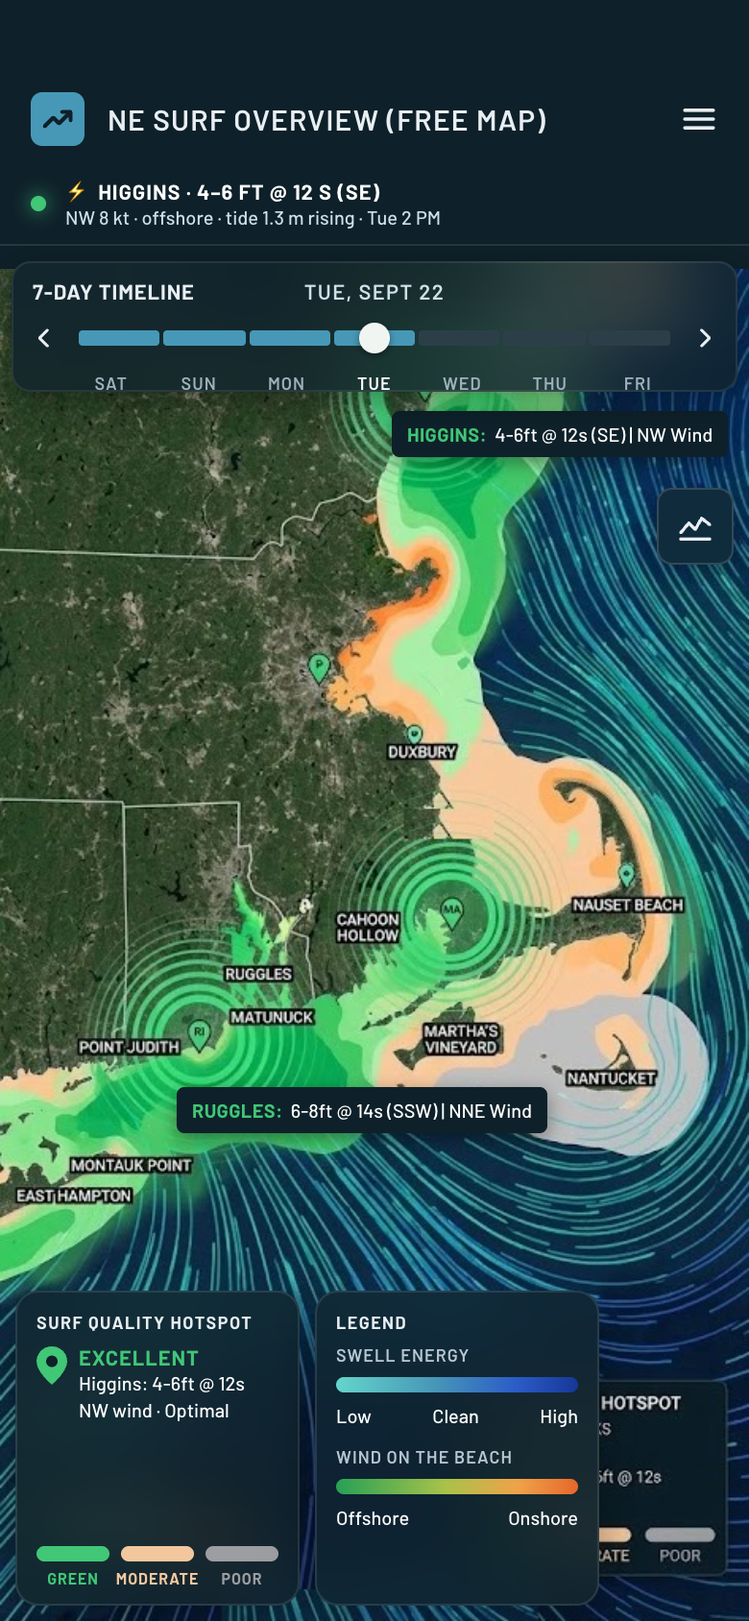
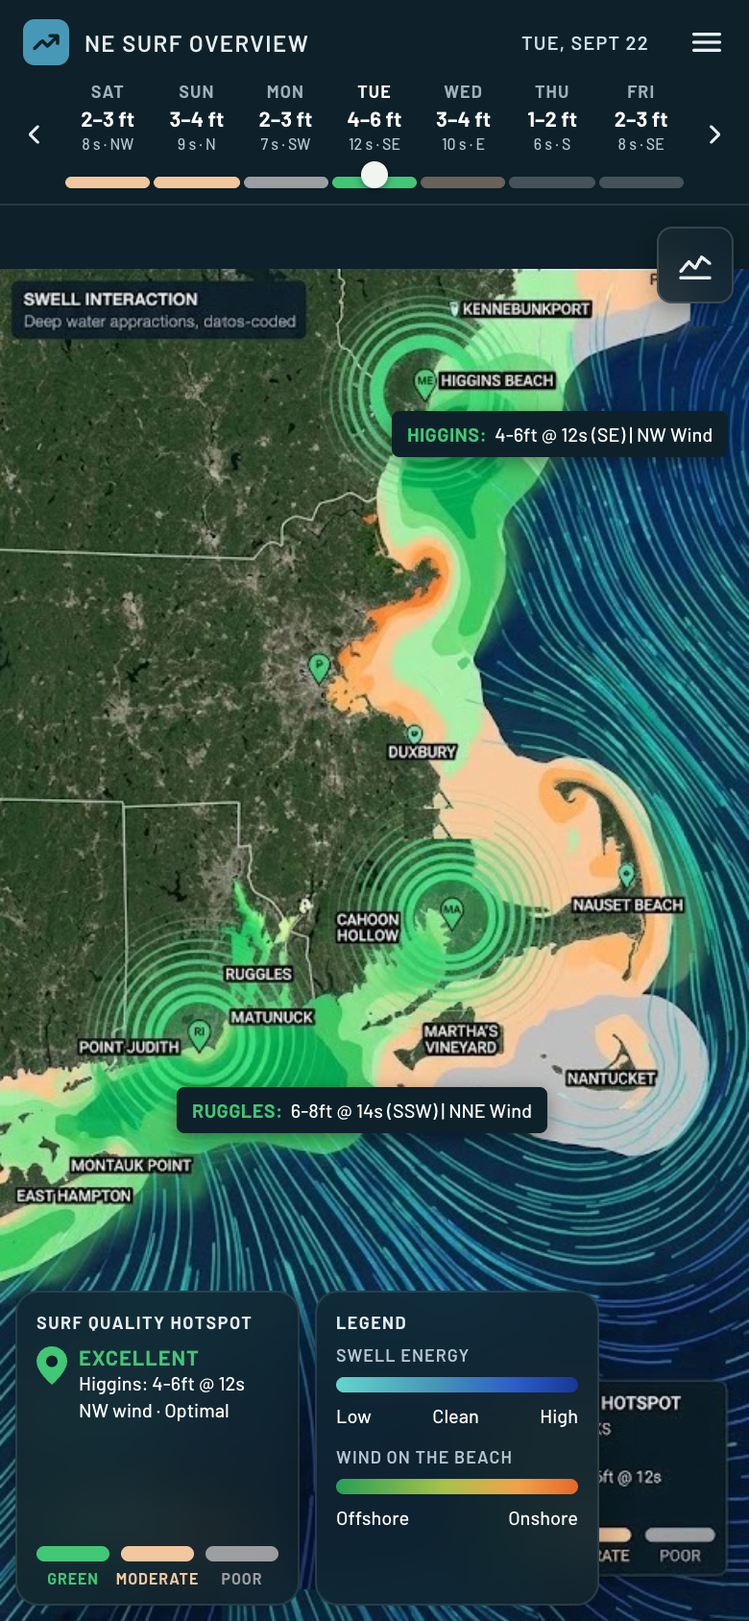
Compact header: one glass bar with the 7-day forecast timeline
- title row (24 px logo, title, date, menu) + a 7-day timeline where each day column carries the region's best break: range, period · wind, tier-coloured segment; the knob rides over the segments and follows the hovered hour
- forecast strip and the separate timeline card removed (~204 px → ~106 px on a phone); forecast button moved up; map fit padding updated
- ui-reference.html v6 + PNG re-rendered; diff: header 0.33%, dock cards ≤0.26%

diff --git a/design/ne-surf-handoff/ui-reference.html b/design/ne-surf-handoff/ui-reference.html
@@ -18,70 +18,75 @@ button{font-family:inherit}
   <!-- MAP LAYER (placeholder for the map engine: satellite tiles + swell heat + wind streamlines + break markers) -->
   <img src="map_layer.jpg" alt="Satellite map of the New England coast with swell and wind overlays" style="position: absolute; left: 0px; top: 140px; width: 390px; height: 704px; object-fit: cover; display: block;">
 
-  <!-- HEADER (safe-area 40px + 44px bar) -->
-  <div style="position: absolute; left: 0px; top: 0px; width: 390px; height: 84px; background: rgba(14,32,41,0.72); backdrop-filter: blur(24px); -webkit-backdrop-filter: blur(24px); box-sizing: border-box; padding: 40px 16px 0px 16px; display: flex; align-items: center; gap: 12px; z-index: 5;">
-    <div style="width: 28px; height: 28px; border-radius: 6px; background: #4798b7; display: flex; align-items: center; justify-content: center; flex-shrink: 0;">
-      <svg width="18" height="18" viewBox="0 0 24 24" fill="none" stroke="#0e2029" stroke-width="2.6" stroke-linecap="round" stroke-linejoin="round"><polyline points="3 17 9 11 13 15 21 7"></polyline><polyline points="15 7 21 7 21 13"></polyline></svg>
+  <!-- COMPACT HEADER (v6 2026-09-22): one glass bar — title row + 7-day forecast timeline -->
+  <div style="position: absolute; left: 0px; top: 0px; width: 390px; background: rgba(14,32,41,0.72); backdrop-filter: blur(24px); -webkit-backdrop-filter: blur(24px); border-bottom: 1px solid rgba(255,255,255,0.10); box-sizing: border-box; padding: calc(8px + env(safe-area-inset-top)) 12px 8px 12px; z-index: 5;">
+    <div style="display: flex; align-items: center; gap: 8px; height: 28px;">
+      <div style="width: 24px; height: 24px; border-radius: 6px; background: #4798b7; display: flex; align-items: center; justify-content: center; flex-shrink: 0;">
+        <svg width="16" height="16" viewBox="0 0 24 24" fill="none" stroke="#0e2029" stroke-width="2.6" stroke-linecap="round" stroke-linejoin="round"><polyline points="3 17 9 11 13 15 21 7"></polyline><polyline points="15 7 21 7 21 13"></polyline></svg>
+      </div>
+      <div style="flex-grow: 1; font-size: 12px; font-weight: 600; letter-spacing: 0.06em; text-transform: uppercase; color: #e8eef2; white-space: nowrap; overflow: hidden; text-overflow: ellipsis;">NE Surf Overview</div>
+      <div style="font-size: 10px; font-weight: 600; letter-spacing: 0.06em; text-transform: uppercase; color: #cfe0ea; white-space: nowrap;">Tue, Sept 22</div>
+      <button aria-label="Open menu" style="width: 44px; height: 44px; margin-right: -12px; background: transparent; border: 0; padding: 0; display: flex; align-items: center; justify-content: center; cursor: pointer;">
+        <svg width="20" height="20" viewBox="0 0 24 24" fill="none" stroke="#e8eef2" stroke-width="2" stroke-linecap="round"><line x1="4" y1="7" x2="20" y2="7"></line><line x1="4" y1="12" x2="20" y2="12"></line><line x1="4" y1="17" x2="20" y2="17"></line></svg>
+      </button>
     </div>
-    <div style="flex-grow: 1; font-size: 15px; font-weight: 600; letter-spacing: 0.04em; text-transform: uppercase; color: #e8eef2; white-space: nowrap; overflow: hidden; text-overflow: ellipsis;">NE Surf Overview (Free Map)</div>
-    <button aria-label="Open menu" style="width: 44px; height: 44px; margin-right: -12px; background: transparent; border: 0; padding: 0; display: flex; align-items: center; justify-content: center; cursor: pointer;">
-      <svg width="22" height="22" viewBox="0 0 24 24" fill="none" stroke="#e8eef2" stroke-width="2" stroke-linecap="round"><line x1="4" y1="7" x2="20" y2="7"></line><line x1="4" y1="12" x2="20" y2="12"></line><line x1="4" y1="17" x2="20" y2="17"></line></svg>
-    </button>
-  </div>
-
-  <!-- FULL FORECAST STRIP (v4 2026-09-22: second row of the glass header) -->
-  <div style="position: absolute; left: 0px; top: 84px; width: 390px; height: 44px; background: rgba(14,32,41,0.72); backdrop-filter: blur(24px); -webkit-backdrop-filter: blur(24px); border-bottom: 1px solid rgba(255,255,255,0.10); box-sizing: border-box; z-index: 5;">
-    <button style="width: 100%; height: 44px; padding: 0 16px; border: 0; background: transparent; display: flex; align-items: center; gap: 10px; cursor: pointer; color: #ffffff; font-family: 'Barlow', system-ui, sans-serif; text-align: left;">
-      <span style="width: 8px; height: 8px; border-radius: 4px; background: #41c776; box-shadow: 0 0 10px #41c776; flex-shrink: 0;"></span>
-      <span style="min-width: 0; display: flex; flex-direction: column; line-height: 1.2;">
-        <span style="font-size: 11px; font-weight: 700; letter-spacing: .04em; text-transform: uppercase; white-space: nowrap; overflow: hidden; text-overflow: ellipsis;">⚡ Higgins · 4–6 ft @ 12 s (SE)</span>
-        <span style="font-size: 10px; font-weight: 500; color: #cfe0ea; white-space: nowrap; overflow: hidden; text-overflow: ellipsis;">NW 8 kt · offshore · tide 1.3 m rising · Tue 2 PM</span>
-      </span>
-    </button>
-  </div>
-
-  <!-- 7-DAY TIMELINE -->
-  <div style="position: absolute; left: 6px; top: 136px; width: 378px; height: 68px; border-radius: 10px; background: rgba(14,33,42,0.78); backdrop-filter: blur(18px); -webkit-backdrop-filter: blur(18px); border: 1px solid rgba(255,255,255,0.08); box-shadow: 0px 6px 18px rgba(0,0,0,0.35); box-sizing: border-box; padding: 8px 10px 6px 10px; display: flex; flex-direction: column; gap: 6px; z-index: 6;">
-    <div style="display: grid; grid-template-columns: repeat(3, minmax(0, 1fr)); align-items: center;">
-      <div style="font-size: 11px; font-weight: 700; letter-spacing: 0.04em; text-transform: uppercase; color: #e8eef2;">7-Day Timeline</div>
-      <div style="text-align: center; font-size: 11px; font-weight: 600; letter-spacing: 0.06em; text-transform: uppercase; color: #cfe0ea;">Tue, Sept 22</div>
-      <div></div>
-    </div>
-    <div style="display: flex; align-items: center; gap: 6px;">
+    <div style="display: flex; align-items: center; gap: 4px; margin-top: 6px;">
       <button aria-label="Previous day" style="width: 24px; height: 24px; margin-left: -6px; background: transparent; border: 0; padding: 0; display: flex; align-items: center; justify-content: center; cursor: pointer;">
         <svg width="14" height="14" viewBox="0 0 24 24" fill="none" stroke="#e8eef2" stroke-width="2.6" stroke-linecap="round" stroke-linejoin="round"><polyline points="15 5 8 12 15 19"></polyline></svg>
       </button>
-      <div style="flex-grow: 1; position: relative; height: 16px; display: flex; align-items: center;">
-        <div style="flex-grow: 1; display: grid; grid-template-columns: repeat(7, minmax(0, 1fr)); gap: 2px; height: 8px;">
-          <button aria-label="Sat" style="height: 8px; border: 0; padding: 0; border-radius: 2px; cursor: pointer; background: #4798b7;"></button>
-<button aria-label="Sun" style="height: 8px; border: 0; padding: 0; border-radius: 2px; cursor: pointer; background: #4798b7;"></button>
-<button aria-label="Mon" style="height: 8px; border: 0; padding: 0; border-radius: 2px; cursor: pointer; background: #4798b7;"></button>
-<button aria-label="Tue" style="height: 8px; border: 0; padding: 0; border-radius: 2px; cursor: pointer; background: #4798b7;"></button>
-<button aria-label="Wed" style="height: 8px; border: 0; padding: 0; border-radius: 2px; cursor: pointer; background: #2c3f49;"></button>
-<button aria-label="Thu" style="height: 8px; border: 0; padding: 0; border-radius: 2px; cursor: pointer; background: #2c3f49;"></button>
-<button aria-label="Fri" style="height: 8px; border: 0; padding: 0; border-radius: 2px; cursor: pointer; background: #2c3f49;"></button>
-
-        </div>
-        <div style="position: absolute; top: 0px; left: calc(50% - 8px); width: 16px; height: 16px; border-radius: 8px; background: #f0f5f1; box-shadow: 0px 1px 4px rgba(0,0,0,0.5); pointer-events: none;"></div>
+      <div style="flex-grow: 1; position: relative; display: grid; grid-template-columns: repeat(7, minmax(0, 1fr)); gap: 2px;">
+            <button aria-label="Sat 2–3 ft" style="height: 56px; padding: 0px; background: transparent; border: 0; cursor: pointer; display: flex; flex-direction: column; align-items: center; justify-content: flex-start; gap: 2px; min-width: 0px;">
+              <div style="font-size: 9px; font-weight: 700; letter-spacing: 0.06em; text-transform: uppercase; color: #9fb1bc;">Sat</div>
+              <div style="font-size: 11px; font-weight: 700; color: #ffffff; white-space: nowrap;">2–3 ft</div>
+              <div style="font-size: 8px; font-weight: 500; color: #b8c7d1; white-space: nowrap; overflow: hidden; text-overflow: ellipsis; max-width: 100%;">8 s · NW</div>
+              <div style="width: 100%; height: 6px; border-radius: 3px; margin-top: auto; background: #f3c79e; opacity: 1;"></div>
+            </button>
+            <button aria-label="Sun 3–4 ft" style="height: 56px; padding: 0px; background: transparent; border: 0; cursor: pointer; display: flex; flex-direction: column; align-items: center; justify-content: flex-start; gap: 2px; min-width: 0px;">
+              <div style="font-size: 9px; font-weight: 700; letter-spacing: 0.06em; text-transform: uppercase; color: #9fb1bc;">Sun</div>
+              <div style="font-size: 11px; font-weight: 700; color: #ffffff; white-space: nowrap;">3–4 ft</div>
+              <div style="font-size: 8px; font-weight: 500; color: #b8c7d1; white-space: nowrap; overflow: hidden; text-overflow: ellipsis; max-width: 100%;">9 s · N</div>
+              <div style="width: 100%; height: 6px; border-radius: 3px; margin-top: auto; background: #f3c79e; opacity: 1;"></div>
+            </button>
+            <button aria-label="Mon 2–3 ft" style="height: 56px; padding: 0px; background: transparent; border: 0; cursor: pointer; display: flex; flex-direction: column; align-items: center; justify-content: flex-start; gap: 2px; min-width: 0px;">
+              <div style="font-size: 9px; font-weight: 700; letter-spacing: 0.06em; text-transform: uppercase; color: #9fb1bc;">Mon</div>
+              <div style="font-size: 11px; font-weight: 700; color: #ffffff; white-space: nowrap;">2–3 ft</div>
+              <div style="font-size: 8px; font-weight: 500; color: #b8c7d1; white-space: nowrap; overflow: hidden; text-overflow: ellipsis; max-width: 100%;">7 s · SW</div>
+              <div style="width: 100%; height: 6px; border-radius: 3px; margin-top: auto; background: #9c9ea1; opacity: 1;"></div>
+            </button>
+            <button aria-label="Tue 4–6 ft" style="height: 56px; padding: 0px; background: transparent; border: 0; cursor: pointer; display: flex; flex-direction: column; align-items: center; justify-content: flex-start; gap: 2px; min-width: 0px;">
+              <div style="font-size: 9px; font-weight: 700; letter-spacing: 0.06em; text-transform: uppercase; color: #ffffff;">Tue</div>
+              <div style="font-size: 11px; font-weight: 700; color: #ffffff; white-space: nowrap;">4–6 ft</div>
+              <div style="font-size: 8px; font-weight: 500; color: #b8c7d1; white-space: nowrap; overflow: hidden; text-overflow: ellipsis; max-width: 100%;">12 s · SE</div>
+              <div style="width: 100%; height: 6px; border-radius: 3px; margin-top: auto; background: #41c776; opacity: 1;"></div>
+            </button>
+            <button aria-label="Wed 3–4 ft" style="height: 56px; padding: 0px; background: transparent; border: 0; cursor: pointer; display: flex; flex-direction: column; align-items: center; justify-content: flex-start; gap: 2px; min-width: 0px;">
+              <div style="font-size: 9px; font-weight: 700; letter-spacing: 0.06em; text-transform: uppercase; color: #9fb1bc;">Wed</div>
+              <div style="font-size: 11px; font-weight: 700; color: #ffffff; white-space: nowrap;">3–4 ft</div>
+              <div style="font-size: 8px; font-weight: 500; color: #b8c7d1; white-space: nowrap; overflow: hidden; text-overflow: ellipsis; max-width: 100%;">10 s · E</div>
+              <div style="width: 100%; height: 6px; border-radius: 3px; margin-top: auto; background: #f3c79e; opacity: 0.4;"></div>
+            </button>
+            <button aria-label="Thu 1–2 ft" style="height: 56px; padding: 0px; background: transparent; border: 0; cursor: pointer; display: flex; flex-direction: column; align-items: center; justify-content: flex-start; gap: 2px; min-width: 0px;">
+              <div style="font-size: 9px; font-weight: 700; letter-spacing: 0.06em; text-transform: uppercase; color: #9fb1bc;">Thu</div>
+              <div style="font-size: 11px; font-weight: 700; color: #ffffff; white-space: nowrap;">1–2 ft</div>
+              <div style="font-size: 8px; font-weight: 500; color: #b8c7d1; white-space: nowrap; overflow: hidden; text-overflow: ellipsis; max-width: 100%;">6 s · S</div>
+              <div style="width: 100%; height: 6px; border-radius: 3px; margin-top: auto; background: #9c9ea1; opacity: 0.4;"></div>
+            </button>
+            <button aria-label="Fri 2–3 ft" style="height: 56px; padding: 0px; background: transparent; border: 0; cursor: pointer; display: flex; flex-direction: column; align-items: center; justify-content: flex-start; gap: 2px; min-width: 0px;">
+              <div style="font-size: 9px; font-weight: 700; letter-spacing: 0.06em; text-transform: uppercase; color: #9fb1bc;">Fri</div>
+              <div style="font-size: 11px; font-weight: 700; color: #ffffff; white-space: nowrap;">2–3 ft</div>
+              <div style="font-size: 8px; font-weight: 500; color: #b8c7d1; white-space: nowrap; overflow: hidden; text-overflow: ellipsis; max-width: 100%;">8 s · SE</div>
+              <div style="width: 100%; height: 6px; border-radius: 3px; margin-top: auto; background: #9c9ea1; opacity: 0.4;"></div>
+            </button>
+            <div style="position: absolute; top: 42px; left: calc(50.000% - 7px); width: 14px; height: 14px; border-radius: 7px; background: #f0f5f1; box-shadow: 0px 1px 4px rgba(0,0,0,0.5); pointer-events: none;"></div>
       </div>
       <button aria-label="Next day" style="width: 24px; height: 24px; margin-right: -6px; background: transparent; border: 0; padding: 0; display: flex; align-items: center; justify-content: center; cursor: pointer;">
         <svg width="14" height="14" viewBox="0 0 24 24" fill="none" stroke="#e8eef2" stroke-width="2.6" stroke-linecap="round" stroke-linejoin="round"><polyline points="9 5 16 12 9 19"></polyline></svg>
       </button>
     </div>
-    <div style="display: grid; grid-template-columns: repeat(7, minmax(0, 1fr)); padding: 0px 18px;">
-      <div style="text-align: center; font-size: 9px; font-weight: 600; letter-spacing: 0.06em; text-transform: uppercase; color: #9fb1bc;">Sat</div>
-<div style="text-align: center; font-size: 9px; font-weight: 600; letter-spacing: 0.06em; text-transform: uppercase; color: #9fb1bc;">Sun</div>
-<div style="text-align: center; font-size: 9px; font-weight: 600; letter-spacing: 0.06em; text-transform: uppercase; color: #9fb1bc;">Mon</div>
-<div style="text-align: center; font-size: 9px; font-weight: 600; letter-spacing: 0.06em; text-transform: uppercase; color: #ffffff;">Tue</div>
-<div style="text-align: center; font-size: 9px; font-weight: 600; letter-spacing: 0.06em; text-transform: uppercase; color: #9fb1bc;">Wed</div>
-<div style="text-align: center; font-size: 9px; font-weight: 600; letter-spacing: 0.06em; text-transform: uppercase; color: #9fb1bc;">Thu</div>
-<div style="text-align: center; font-size: 9px; font-weight: 600; letter-spacing: 0.06em; text-transform: uppercase; color: #9fb1bc;">Fri</div>
-
-    </div>
   </div>
 
   <!-- MAP CONTROL: LAYERS -->
-  <button aria-label="Surf forecast" style="position: absolute; left: 342px; top: 254px; width: 40px; height: 40px; border-radius: 8px; background: rgba(14,33,42,0.7); backdrop-filter: blur(18px); -webkit-backdrop-filter: blur(18px); border: 1px solid rgba(255,255,255,0.14); box-shadow: 0px 4px 14px rgba(0,0,0,0.35); display: flex; align-items: center; justify-content: center; cursor: pointer; z-index: 4;">
+  <button aria-label="Surf forecast" style="position: absolute; left: 342px; top: 118px; width: 40px; height: 40px; border-radius: 8px; background: rgba(14,33,42,0.7); backdrop-filter: blur(18px); -webkit-backdrop-filter: blur(18px); border: 1px solid rgba(255,255,255,0.14); box-shadow: 0px 4px 14px rgba(0,0,0,0.35); display: flex; align-items: center; justify-content: center; cursor: pointer; z-index: 4;">
     <svg width="20" height="20" viewBox="0 0 24 24" fill="none" stroke="#e8eef2" stroke-width="2" stroke-linecap="round" stroke-linejoin="round"><polyline points="3 16 8 10 12 14 16 7 21 11"></polyline><line x1="3" y1="20" x2="21" y2="20"></line></svg>
   </button>
 

diff --git a/components/screen/OverviewScreen.tsx b/components/screen/OverviewScreen.tsx
@@ -1,6 +1,6 @@
 "use client";
 /**
- * 1:1 port of design/ne-surf-handoff/ui-reference.html (v2, 2026-09-22: mode chips removed, Layers control → Forecast drawer control). Every px, hex, radius, opacity and font value below is
+ * 1:1 port of design/ne-surf-handoff/ui-reference.html (v6, 2026-09-22: one compact glass header = title row + 7-day forecast timeline; widget dock). Every px, hex, radius, opacity and font value below is
  * copied from that file; only the text content and the map slot are props. Do not restyle from memory —
  * change ui-reference.html first, then this file, then pass `npm run diff`.
  *
@@ -8,23 +8,19 @@
  * the 24px chevrons and 8px segments carry invisible ≥44px hit areas (.hit44 / .hit44-seg).
  */
 import type { CSSProperties, ReactNode } from "react";
-import ForecastStrip, { type StripModel } from "./ForecastStrip";
 
 export interface ScreenModel {
   dateLabel: string;
-  days: Array<{ name: string; filled: boolean; active: boolean }>;
+  days: Array<{ name: string; filled: boolean; active: boolean; range: string; meta: string; tierColor: string }>;
   selectedIndex: number;
   callouts: Array<{ id: string; name: string; body: string; left: number; top: number; color?: string }>;
   hotspot: { rating: string; ratingColor: string; line1: string; line2: string; pinColor: string };
-  /** full forecast for the best break at the active hour: second row of the glass header (2026-09-22 v4) */
-  forecast: StripModel;
   /** position of the timeline knob inside the active day (0–1); undefined = centred, as in ui-reference.html */
   knobFraction?: number;
 }
 
 export interface ScreenHandlers {
   onPrev: () => void; onNext: () => void; onPickDay: (i: number) => void;
-  onStrip: () => void;
   onForecast: () => void; onMenu: () => void; onHotspot: () => void;
 }
 
@@ -50,54 +46,41 @@ export default function OverviewScreen({ m, h, map, dockExtras, children }: { m:
       {/* MAP LAYER */}
       {map}
 
-      {/* HEADER (safe-area 40px + 44px bar) */}
-      <div style={{ position: "absolute", left: 0, top: 0, width: "100%", height: 84, background: "rgba(14,32,41,0.72)", backdropFilter: "blur(24px)", WebkitBackdropFilter: "blur(24px)", boxSizing: "border-box", padding: "40px 16px 0px 16px", display: "flex", alignItems: "center", gap: 12, zIndex: 5 }}>
-        <div style={{ width: 28, height: 28, borderRadius: 6, background: "#4798b7", display: "flex", alignItems: "center", justifyContent: "center", flexShrink: 0 }}>
-          <svg width="18" height="18" viewBox="0 0 24 24" fill="none" stroke="#0e2029" strokeWidth="2.6" strokeLinecap="round" strokeLinejoin="round"><polyline points="3 17 9 11 13 15 21 7"></polyline><polyline points="15 7 21 7 21 13"></polyline></svg>
+      {/* COMPACT HEADER (v6 2026-09-22): one glass bar — slim title row + the 7-day forecast timeline (each day carries its own forecast) */}
+      <div style={{ position: "absolute", left: 0, top: 0, width: "100%", background: "rgba(14,32,41,0.72)", backdropFilter: "blur(24px)", WebkitBackdropFilter: "blur(24px)", borderBottom: "1px solid rgba(255,255,255,0.10)", boxSizing: "border-box", padding: "calc(8px + env(safe-area-inset-top)) 12px 8px 12px", zIndex: 5 }}>
+        <div style={{ display: "flex", alignItems: "center", gap: 8, height: 28 }}>
+          <div style={{ width: 24, height: 24, borderRadius: 6, background: "#4798b7", display: "flex", alignItems: "center", justifyContent: "center", flexShrink: 0 }}>
+            <svg width="16" height="16" viewBox="0 0 24 24" fill="none" stroke="#0e2029" strokeWidth="2.6" strokeLinecap="round" strokeLinejoin="round"><polyline points="3 17 9 11 13 15 21 7"></polyline><polyline points="15 7 21 7 21 13"></polyline></svg>
+          </div>
+          <div style={{ flexGrow: 1, fontSize: 12, fontWeight: 600, letterSpacing: "0.06em", textTransform: "uppercase", color: "#e8eef2", whiteSpace: "nowrap", overflow: "hidden", textOverflow: "ellipsis" }}>NE Surf Overview</div>
+          <div style={{ fontSize: 10, fontWeight: 600, letterSpacing: "0.06em", textTransform: "uppercase", color: "#cfe0ea", whiteSpace: "nowrap" }}>{m.dateLabel}</div>
+          <button aria-label="Open menu" onClick={h.onMenu} style={{ width: 44, height: 44, marginRight: -12, background: "transparent", border: 0, padding: 0, display: "flex", alignItems: "center", justifyContent: "center", cursor: "pointer" }}>
+            <svg width="20" height="20" viewBox="0 0 24 24" fill="none" stroke="#e8eef2" strokeWidth="2" strokeLinecap="round"><line x1="4" y1="7" x2="20" y2="7"></line><line x1="4" y1="12" x2="20" y2="12"></line><line x1="4" y1="17" x2="20" y2="17"></line></svg>
+          </button>
         </div>
-        <div style={{ flexGrow: 1, fontSize: 15, fontWeight: 600, letterSpacing: "0.04em", textTransform: "uppercase", color: "#e8eef2", whiteSpace: "nowrap", overflow: "hidden", textOverflow: "ellipsis" }}>NE Surf Overview (Free Map)</div>
-        <button aria-label="Open menu" onClick={h.onMenu} style={{ width: 44, height: 44, marginRight: -12, background: "transparent", border: 0, padding: 0, display: "flex", alignItems: "center", justifyContent: "center", cursor: "pointer" }}>
-          <svg width="22" height="22" viewBox="0 0 24 24" fill="none" stroke="#e8eef2" strokeWidth="2" strokeLinecap="round"><line x1="4" y1="7" x2="20" y2="7"></line><line x1="4" y1="12" x2="20" y2="12"></line><line x1="4" y1="17" x2="20" y2="17"></line></svg>
-        </button>
-      </div>
-
-      {/* FULL FORECAST STRIP — second row of the glass header (v4 2026-09-22: replaced the pill band + layer card) */}
-      <div style={{ position: "absolute", left: 0, top: 84, width: "100%", height: 44, background: "rgba(14,32,41,0.72)", backdropFilter: "blur(24px)", WebkitBackdropFilter: "blur(24px)", borderBottom: "1px solid rgba(255,255,255,0.10)", boxSizing: "border-box", zIndex: 5 }}>
-        <ForecastStrip f={m.forecast} onClick={h.onStrip} />
-      </div>
-
-      {/* 7-DAY TIMELINE */}
-      <div style={{ position: "absolute", left: 6, right: 6, top: 136, height: 68, borderRadius: 10, background: "rgba(14,33,42,0.78)", backdropFilter: "blur(18px)", WebkitBackdropFilter: "blur(18px)", border: "1px solid rgba(255,255,255,0.08)", boxShadow: "0px 6px 18px rgba(0,0,0,0.35)", boxSizing: "border-box", padding: "8px 10px 6px 10px", display: "flex", flexDirection: "column", gap: 6, zIndex: 6 }}>
-        <div style={{ display: "grid", gridTemplateColumns: "repeat(3, minmax(0, 1fr))", alignItems: "center" }}>
-          <div style={{ fontSize: 11, fontWeight: 700, letterSpacing: "0.04em", textTransform: "uppercase", color: "#e8eef2" }}>7-Day Timeline</div>
-          <div style={{ textAlign: "center", fontSize: 11, fontWeight: 600, letterSpacing: "0.06em", textTransform: "uppercase", color: "#cfe0ea" }}>{m.dateLabel}</div>
-          <div></div>
-        </div>
-        <div style={{ display: "flex", alignItems: "center", gap: 6 }}>
+        <div style={{ display: "flex", alignItems: "center", gap: 4, marginTop: 6 }}>
           <button aria-label="Previous day" onClick={h.onPrev} className="hit44" style={{ width: 24, height: 24, marginLeft: -6, background: "transparent", border: 0, padding: 0, display: "flex", alignItems: "center", justifyContent: "center", cursor: "pointer" }}>
             <svg width="14" height="14" viewBox="0 0 24 24" fill="none" stroke="#e8eef2" strokeWidth="2.6" strokeLinecap="round" strokeLinejoin="round"><polyline points="15 5 8 12 15 19"></polyline></svg>
           </button>
-          <div style={{ flexGrow: 1, position: "relative", height: 16, display: "flex", alignItems: "center" }}>
-            <div style={{ flexGrow: 1, display: "grid", gridTemplateColumns: "repeat(7, minmax(0, 1fr))", gap: 2, height: 8 }}>
-              {m.days.map((d, i) => (
-                <button key={d.name + i} aria-label={d.name} onClick={() => h.onPickDay(i)} className="hit44-seg" style={{ height: 8, border: 0, padding: 0, borderRadius: 2, cursor: "pointer", background: d.filled ? "#4798b7" : "#2c3f49" }}></button>
-              ))}
-            </div>
-            <div style={{ position: "absolute", top: 0, left: `calc(${pct.toFixed(3)}% - 8px)`, width: 16, height: 16, borderRadius: 8, background: "#f0f5f1", boxShadow: "0px 1px 4px rgba(0,0,0,0.5)", pointerEvents: "none", transition: "left 200ms ease" }}></div>
+          <div style={{ flexGrow: 1, position: "relative", display: "grid", gridTemplateColumns: "repeat(7, minmax(0, 1fr))", gap: 2 }}>
+            {m.days.map((d, i) => (
+              <button key={d.name + i} aria-label={`${d.name} ${d.range}`} onClick={() => h.onPickDay(i)} style={{ height: 56, padding: 0, background: "transparent", border: 0, cursor: "pointer", display: "flex", flexDirection: "column", alignItems: "center", justifyContent: "flex-start", gap: 2, minWidth: 0 }}>
+                <div style={{ fontSize: 9, fontWeight: 700, letterSpacing: "0.06em", textTransform: "uppercase", color: d.active ? "#ffffff" : "#9fb1bc" }}>{d.name}</div>
+                <div style={{ fontSize: 11, fontWeight: 700, color: "#ffffff", whiteSpace: "nowrap" }}>{d.range}</div>
+                <div style={{ fontSize: 8, fontWeight: 500, color: "#b8c7d1", whiteSpace: "nowrap", overflow: "hidden", textOverflow: "ellipsis", maxWidth: "100%" }}>{d.meta}</div>
+                <div style={{ width: "100%", height: 6, borderRadius: 3, marginTop: "auto", background: d.tierColor, opacity: d.filled ? 1 : 0.4 }}></div>
+              </button>
+            ))}
+            <div style={{ position: "absolute", top: 42, left: `calc(${pct.toFixed(3)}% - 7px)`, width: 14, height: 14, borderRadius: 7, background: "#f0f5f1", boxShadow: "0px 1px 4px rgba(0,0,0,0.5)", pointerEvents: "none", transition: "left 200ms ease" }}></div>
           </div>
           <button aria-label="Next day" onClick={h.onNext} className="hit44" style={{ width: 24, height: 24, marginRight: -6, background: "transparent", border: 0, padding: 0, display: "flex", alignItems: "center", justifyContent: "center", cursor: "pointer" }}>
             <svg width="14" height="14" viewBox="0 0 24 24" fill="none" stroke="#e8eef2" strokeWidth="2.6" strokeLinecap="round" strokeLinejoin="round"><polyline points="9 5 16 12 9 19"></polyline></svg>
           </button>
         </div>
-        <div style={{ display: "grid", gridTemplateColumns: "repeat(7, minmax(0, 1fr))", padding: "0px 18px" }}>
-          {m.days.map((d, i) => (
-            <div key={d.name + i} style={{ textAlign: "center", fontSize: 9, fontWeight: 600, letterSpacing: "0.06em", textTransform: "uppercase", color: d.active ? "#ffffff" : "#9fb1bc" }}>{d.name}</div>
-          ))}
-        </div>
       </div>
 
       {/* MAP CONTROL: FORECAST DRAWER */}
-      <button aria-label="Surf forecast" onClick={h.onForecast} className="hit44" style={{ position: "absolute", right: 8, top: 254, width: 40, height: 40, borderRadius: 8, background: "rgba(14,33,42,0.7)", backdropFilter: "blur(18px)", WebkitBackdropFilter: "blur(18px)", border: "1px solid rgba(255,255,255,0.14)", boxShadow: "0px 4px 14px rgba(0,0,0,0.35)", display: "flex", alignItems: "center", justifyContent: "center", cursor: "pointer", zIndex: 4 }}>
+      <button aria-label="Surf forecast" onClick={h.onForecast} className="hit44" style={{ position: "absolute", right: 8, top: 118, width: 40, height: 40, borderRadius: 8, background: "rgba(14,33,42,0.7)", backdropFilter: "blur(18px)", WebkitBackdropFilter: "blur(18px)", border: "1px solid rgba(255,255,255,0.14)", boxShadow: "0px 4px 14px rgba(0,0,0,0.35)", display: "flex", alignItems: "center", justifyContent: "center", cursor: "pointer", zIndex: 4 }}>
         <svg width="20" height="20" viewBox="0 0 24 24" fill="none" stroke="#e8eef2" strokeWidth="2" strokeLinecap="round" strokeLinejoin="round"><polyline points="3 16 8 10 12 14 16 7 21 11"></polyline><line x1="3" y1="20" x2="21" y2="20"></line></svg>
       </button>
 

diff --git a/app/page.tsx b/app/page.tsx
@@ -108,29 +108,8 @@ function PageInner() {
   const windWord = !hotWind ? "" : hotWind.label === "offshore" || hotWind.label === "glassy" ? "Optimal" : hotWind.label === "onshore" || hotWind.label === "cross-on" ? "Onshore" : "Cross-shore";
   const go = (id: string) => { const s = REGION_SPOTS.find((x) => x.id === id); if (!s) { router.push(`/spots/${id}`); return; } setSelected(id); setFlyTo({ lon: s.location.lon, lat: s.location.lat, key: ++flyKey.current }); };
 
-  // Anticipatory pill: the best break at the map's active hour (score of the point nearest mapTime), with its wind outlook
   const nearest = (pts: ForecastPoint[], iso: string | null) => (iso ? pts.reduce((b, p) => (Math.abs(Date.parse(p.valid_time) - Date.parse(iso)) < Math.abs(Date.parse(b.valid_time) - Date.parse(iso)) ? p : b), pts[0]) : null);
   const hourWord = (t: number) => { const h = Number(new Intl.DateTimeFormat("en-US", { timeZone: NY, hour: "numeric", hour12: false }).format(new Date(t))) % 24; return h === 0 ? "midnight" : h === 12 ? "noon" : h < 12 ? `${h} AM` : `${h - 12} PM`; };
-  const strip = useMemo(() => {
-    const cands = daily.map((d) => ({ d, p: nearest(d.points, mapTime) })).filter((x) => x.p);
-    if (!cands.length || !mapTime) return { headline: data.loading ? "Reading the forecast…" : "No forecast yet", detail: "", accent: "#9c9ea1" };
-    const best = cands.reduce((b, x) => (x.p!.result.score > b.p!.result.score ? x : b), cands[0]); const p = best.p!, sp = best.d.spot, tier = tierFor(p.result.score);
-    const name = shortName(sp.name).charAt(0) + shortName(sp.name).slice(1).toLowerCase(), lo = Math.max(1, Math.round(p.result.face_ft)), hi = Math.round(p.result.face_ft * 1.3);
-    const size = `${lo}–${hi} ft${p.result.dominant ? ` @ ${p.result.dominant.tp.toFixed(0)} s` : ""}`;
-    const dirWord = p.result.dominant ? ` (${compass(p.result.dominant.dp)})` : "";
-    const headline = `${tier === "green" ? "⚡ " : ""}${name} · ${size}${dirWord}`;
-    const hrs = day ? hourlySeries(best.d.points, day, data.hrrr?.spots.spots.find((s) => s.id === sp.id)?.series) : [];
-    const t0 = Date.parse(mapTime); const ahead = hrs.filter((h) => h.t >= t0 - 1.8e6 && h.t <= t0 + 6 * 3.6e6 && h.windKts != null && h.windFrom != null);
-    const off = ahead.map((h) => ({ h, a: assessWind(sp, { speed_kts: h.windKts!, dir_from_deg: h.windFrom! }) }));
-    const peak = off.reduce<typeof off[number] | null>((b, x) => (!b || x.a.offshore_kts > b.a.offshore_kts ? x : b), null);
-    const now = off.find((x) => Math.abs(x.h.t - t0) <= 1.8e6) ?? off[0];
-    const bits: string[] = [];
-    if (now) bits.push(`${compass(now.h.windFrom!)} ${Math.round(now.h.windKts!)} kt · ${now.a.label}`);
-    if (peak && peak.a.offshore_kts > 2 && peak.h.t - t0 > 1.8e6) bits.push(`offshore peaks ${hourWord(peak.h.t)}`);
-    if (p.cond.tide) bits.push(`tide ${p.cond.tide.height_m.toFixed(1)} m ${p.cond.tide.phase}`);
-    bits.push(`${parts(mapTime).wd} ${hourWord(t0)}`);
-    return { headline, detail: bits.join(" · "), accent: TIER[tier] };
-  }, [daily, mapTime, day, data.hrrr, data.loading]);
   const radarPoint = focus ? nearest(focus.points, mapTime) : null;
   const nearestBuoy = useMemo(() => { if (!focus || !data.ww3) return null; const cands = (data.ww3.spots.buoys ?? []).filter((b) => focus.spot.buoys.includes(b.id));
     const b = (cands.length ? cands : data.ww3.spots.buoys ?? []).map((b) => ({ b, d: Math.hypot(b.position.lat - focus.spot.location.lat, (b.position.lon - focus.spot.location.lon) * 0.73) })).sort((a, c) => a.d - c.d)[0]?.b;
@@ -142,9 +121,13 @@ function PageInner() {
       wind: b.cond.wind ? `${compass(b.cond.wind.dir_from_deg)} ${Math.round(b.cond.wind.speed_kts)} kt${w ? ` · ${w.label}` : ""}` : "wind n/a", active: i === dayIdx }; }) : [];
   const tide = useMemo(() => tideDay(focus ? data.tides[focus.spot.tide.station_id] ?? null : null, day ?? ""), [focus, data.tides, day]);
 
+  // the header's 7-day row: the region's best break per day
+  const dayBest = days.map((d) => forecasts.map(({ points }) => byDay(points).find((x) => x.day === d.key)?.best ?? null).reduce<ForecastPoint | null>((b, p) => (p && (!b || p.result.score > b.result.score) ? p : b), null));
   const model: ScreenModel = {
     dateLabel: days[dayIdx]?.label ?? "",
-    days: (days.length ? days : Array.from({ length: 7 }, (_, i) => ({ key: String(i), name: "", label: "" }))).map((d, i) => ({ name: d.name, filled: i <= dayIdx, active: i === dayIdx })),
+    days: (days.length ? days : Array.from({ length: 7 }, (_, i) => ({ key: String(i), name: "", label: "" }))).map((d, i) => { const b = dayBest[i];
+      return { name: d.name, filled: i <= dayIdx, active: i === dayIdx, range: b ? `${Math.max(1, Math.round(b.result.face_ft))}–${Math.round(b.result.face_ft * 1.3)} ft` : "—",
+        meta: b ? `${b.result.dominant ? `${b.result.dominant.tp.toFixed(0)} s` : ""}${b.cond.wind ? ` · ${compass(b.cond.wind.dir_from_deg)}` : ""}` : "", tierColor: b ? TIER[tierFor(b.result.score)] : "#2c3f49" }; }),
     selectedIndex: dayIdx,
     knobFraction: hoverHour !== null ? hoverHour / 24 : undefined,
     callouts: [],   // callouts are anchored to pins by the map layer
@@ -153,14 +136,13 @@ function PageInner() {
           line1: `${shortName(hot.spot.name).charAt(0) + shortName(hot.spot.name).slice(1).toLowerCase()}: ${Math.max(1, Math.round(hot.best.result.face_ft))}-${Math.round(hot.best.result.face_ft * 1.3)}ft${hot.best.result.dominant ? ` @ ${hot.best.result.dominant.tp.toFixed(0)}s` : ""}`,
           line2: hot.best.cond.wind ? `${compass(hot.best.cond.wind.dir_from_deg)} wind · ${windWord}` : "" }
       : { rating: "—", ratingColor: "#9c9ea1", pinColor: "#9c9ea1", line1: data.error ?? "Loading forecast", line2: "" },
-    forecast: strip,
   };
 
   return (
     <main style={{ position: "fixed", inset: 0 }}>
       <OverviewScreen m={refMode ? REFERENCE_MODEL : model}
         h={{ onPrev: () => setDayIdx((i) => Math.max(0, i - 1)), onNext: () => setDayIdx((i) => Math.min(days.length - 1, i + 1)), onPickDay: setDayIdx,
-             onStrip: () => { const id = daily.map((d) => ({ d, p: nearest(d.points, mapTime) })).filter((x) => x.p).sort((a, b) => b.p!.result.score - a.p!.result.score)[0]?.d.spot.id; if (id) { go(id); setDrawerPref(true); } }, onForecast: () => setDrawerPref(!drawerOpen), onMenu: () => router.push("/about"), onHotspot: () => hot && go(hot.spot.id) }}
+             onForecast: () => setDrawerPref(!drawerOpen), onMenu: () => router.push("/about"), onHotspot: () => hot && go(hot.spot.id) }}
         map={<MarineMap spots={spots} buoys={buoys} wind={windWaves} swell={swell} depth={depth} ribbon={ribbon} onHover={setHover} selectedId={selected} onSelect={setSelected} flyTo={flyTo} />}
         dockExtras={!refMode && focus ? <>
           <div style={dockCard}><PolarRadar trains={radarPoint?.cond.trains ?? []} facingDeg={focus.spot.facing_deg} window={focus.spot.swell.window} title="Swell radar" sub={`${shortName(focus.spot.name)}${mapTime ? ` · ${hourWord(Date.parse(mapTime))}` : ""}`} /></div>

diff --git a/lib/referenceFixture.ts b/lib/referenceFixture.ts
@@ -3,12 +3,19 @@ import type { ScreenModel } from "@/components/screen/OverviewScreen";
 
 export const REFERENCE_MODEL: ScreenModel = {
   dateLabel: "Tue, Sept 22",
-  days: ["Sat", "Sun", "Mon", "Tue", "Wed", "Thu", "Fri"].map((name, i) => ({ name, filled: i <= 3, active: i === 3 })),
+  days: [
+    { name: "Sat", filled: true, active: false, range: "2–3 ft", meta: "8 s · NW", tierColor: "#f3c79e" },
+    { name: "Sun", filled: true, active: false, range: "3–4 ft", meta: "9 s · N", tierColor: "#f3c79e" },
+    { name: "Mon", filled: true, active: false, range: "2–3 ft", meta: "7 s · SW", tierColor: "#9c9ea1" },
+    { name: "Tue", filled: true, active: true, range: "4–6 ft", meta: "12 s · SE", tierColor: "#41c776" },
+    { name: "Wed", filled: false, active: false, range: "3–4 ft", meta: "10 s · E", tierColor: "#f3c79e" },
+    { name: "Thu", filled: false, active: false, range: "1–2 ft", meta: "6 s · S", tierColor: "#9c9ea1" },
+    { name: "Fri", filled: false, active: false, range: "2–3 ft", meta: "8 s · SE", tierColor: "#9c9ea1" },
+  ],
   selectedIndex: 3,
   callouts: [
     { id: "higgins", name: "HIGGINS", body: "4-6ft @ 12s (SE) | NW Wind", left: 204, top: 214 },
     { id: "ruggles", name: "RUGGLES", body: "6-8ft @ 14s (SSW) | NNE Wind", left: 92, top: 566 },
   ],
   hotspot: { rating: "Excellent", ratingColor: "#41c776", line1: "Higgins: 4-6ft @ 12s", line2: "NW wind · Optimal", pinColor: "#41c776" },
-  forecast: { headline: "⚡ Higgins · 4–6 ft @ 12 s (SE)", detail: "NW 8 kt · offshore · tide 1.3 m rising · Tue 2 PM", accent: "#41c776" },
 };

diff --git a/components/map/MarineMap.tsx b/components/map/MarineMap.tsx
@@ -47,7 +47,7 @@ interface Props {
 
 const B = REGION_BBOX;
 const BOUNDS: LngLatBoundsLike = [[B.west, B.south], [B.east, B.north]];
-const FIT = { padding: { top: 210, bottom: 150, left: 8, right: 8 } };
+const FIT = { padding: { top: 120, bottom: 180, left: 8, right: 8 } };
 const LAND = "#1a2a33";
 const STYLE: StyleSpecification = {
   version: 8, glyphs: "https://tiles.openfreemap.org/fonts/{fontstack}/{range}.pbf",

diff --git a/README.md b/README.md
@@ -101,14 +101,14 @@ render concurrently; there are no layer toggles. Region (Reed's 2026-09-22 direc
 | L1 wave energy | Two particle streamline layers, Surfline / Ventusky style, no grid or crest lines. **Groundswell**: the WW3 primary swell partition (`swell1_dp/hs`), Snell-refracted on the depth grid, RK2 streamlines with clocks on dispersion-relation travel time (heads slow over the shallows). **Wind waves**: the WW3 wind-sea partition (`wind_dp/hs`, HRRR wind where absent). Every streamline has a random phase and is emitted in loop-spaced copies so heads flow continuously | deck.gl `TripsLayer` ×2: groundswell = smooth long trails coloured by period (cyan → blue), wind waves = faint fast white dashes; density thins with zoom |
 | L2 nearshore ribbon | 100 m high-water-mark segments with land→sea normal + exposure (`public/data/nh/ribbon.geojson`, MVT layer `ribbon`) | deck.gl `PathLayer`, #00FF88 / #FFB800 / #FF3366 by wind-to-beach angle |
 | L3 land mask | the exact complement of the 0 m isobath (MVT layer `land`; never simplified client-side) | satellite land (Reed's call, 2026-09-22): the antialiased shoreline line sits above L0–L2 and zero bleed is enforced by the data — ocean-only L0 polygons sharing the 0 m outline, L1 streamlines only over water, rays stopping at the shore. The opaque fill stays in the style at opacity 0 for a chart look |
-| L4 annotations | `data/spots.json` (the 14 regional breaks), NDBC buoys | deck.gl pulses + buoy status dots, HTML pins + callouts, React hover tooltips, and the glass UI: the **glass header** with the **full-forecast strip** (`ForecastStrip.tsx`, second header row above the timeline: the best break at the active hour surfaces itself — waves @ period (direction), wind + alignment, offshore peak, tide, hour; tap = fly there + open the drawer), the **polar swell radar** (`PolarRadar.tsx`: 360° compass, each WW3 partition at the active hour as a glowing bloom at its direction, radius by period, size by height, colour by energy; windsea scatters, groundswell clusters; swell window arc + facing notch) and the **buoy swell spectra graph** as widget-dock cards (`dockCard` in `OverviewScreen.tsx`, with the hotspot and legend cards) (`SpectraGraph.tsx`, bottom-left: wave energy across period, 3–21 s bins; the nearest NDBC buoy's raw spectral density (`realtime2/<id>.data_spec`, re-binned S(f)/T² → energy per period bin, labelled BUOY) or, when it has none, the WW3 partitions at the break synthesised as Gaussian peaks whose area is Hs²/16 (labelled MODEL); bars coloured by period like the particle layers, d3-shape monotone area, model partitions as markers), and the forecast drawer (`ForecastDrawer.tsx`: **wave avatar** `WaveAvatar.tsx` — side-profile wave to scale against a 1.75 m person, height from the forecast, lip curl from period + wind alignment — then 24-hour sparklines for height / period / wind / tide and a 7-day overview; hovering an hour moves the timeline knob and swaps the map's vector fields to that hour) |
+| L4 annotations | `data/spots.json` (the 14 regional breaks), NDBC buoys | deck.gl pulses + buoy status dots, HTML pins + callouts, React hover tooltips, and the glass UI: the **compact glass header** (title row + 7-day forecast timeline: per day the region's best break's range, period and wind, tier-coloured segments, knob follows the hovered hour), the **polar swell radar** (`PolarRadar.tsx`: 360° compass, each WW3 partition at the active hour as a glowing bloom at its direction, radius by period, size by height, colour by energy; windsea scatters, groundswell clusters; swell window arc + facing notch) and the **buoy swell spectra graph** as widget-dock cards (`dockCard` in `OverviewScreen.tsx`, with the hotspot and legend cards) (`SpectraGraph.tsx`, bottom-left: wave energy across period, 3–21 s bins; the nearest NDBC buoy's raw spectral density (`realtime2/<id>.data_spec`, re-binned S(f)/T² → energy per period bin, labelled BUOY) or, when it has none, the WW3 partitions at the break synthesised as Gaussian peaks whose area is Hs²/16 (labelled MODEL); bars coloured by period like the particle layers, d3-shape monotone area, model partitions as markers), and the forecast drawer (`ForecastDrawer.tsx`: **wave avatar** `WaveAvatar.tsx` — side-profile wave to scale against a 1.75 m person, height from the forecast, lip curl from period + wind alignment — then 24-hour sparklines for height / period / wind / tide and a 7-day overview; hovering an hour moves the timeline knob and swaps the map's vector fields to that hour) |
 
 Known limits: deck.gl 9.4's `MaskExtension` does not render in interleaved mode with MapLibre 6, so the mask is enforced by
 the land fill + the data rather than a GPU mask; MapLibre 6 hides `map.transform`, which the overlay shims. The directive's
 Mapbox Bathymetry v2 source needs a Mapbox token the project does not have; the CRM tiles are finer (90 m) and keyless.
 
 Chrome: `design/ne-surf-handoff/ui-reference.html` is the source of truth (v2 2026-09-22: mode chips removed, the Layers
-control became the Forecast control; v3: the search bar became the anticipatory pill band; v4: glass header + full-forecast strip, layer info card removed; v5: the bottom legends/hotspot became the widget dock — uniform 148×164 glass cards on an 8-pt grid, scroll-snap on phones, one row on desktop). `node scripts/render-reference.mjs` re-renders `ui-reference.png` from it;
+control became the Forecast control; v3: the search bar became the anticipatory pill band; v4: glass header + full-forecast strip, layer info card removed; v5: the bottom legends/hotspot became the widget dock — uniform 148×164 glass cards on an 8-pt grid, scroll-snap on phones, one row on desktop; v6: the header collapsed to one compact glass bar — a 28 px title row and the 7-day forecast timeline, each day column carrying the region's best range, period and wind with a tier-coloured segment under the slider knob). `node scripts/render-reference.mjs` re-renders `ui-reference.png` from it;
 `node scripts/pixel-diff.mjs 'http://localhost:3000/?ref=1'` diffs the build against it.
 
 ## Map overlays

diff --git a/design/ne-surf-handoff/README.md b/design/ne-surf-handoff/README.md
@@ -52,3 +52,9 @@ forecast button are glass (backdrop-blur over the map); the layer info card is g
 Reed: 'not much space — size and format it like it was designed for an OS'. The bottom-left legends and bottom-right hotspot card became a
 widget dock: one row of uniform glass cards (148×164, radius 12, 8-pt gaps) that scroll-snaps horizontally on phones and sits as one row on
 desktop. The fixture shows Hotspot + Legend; the radar and spectra cards are dynamic and sit between them in the live app.
+
+## v6 — 2026-09-22 (later)
+
+Reed: 'the top header is so big — show the full 7-day forecast and just the timeline, compact at the top'. The title row, the forecast strip and the
+separate timeline card became ONE glass bar (≈106 px on a phone): a 28 px title row (logo, title, date, menu) and a 7-day forecast timeline where
+each day column shows its range, period · wind and a tier-coloured segment; the knob rides over the segments. The forecast button moved up to top 118.
